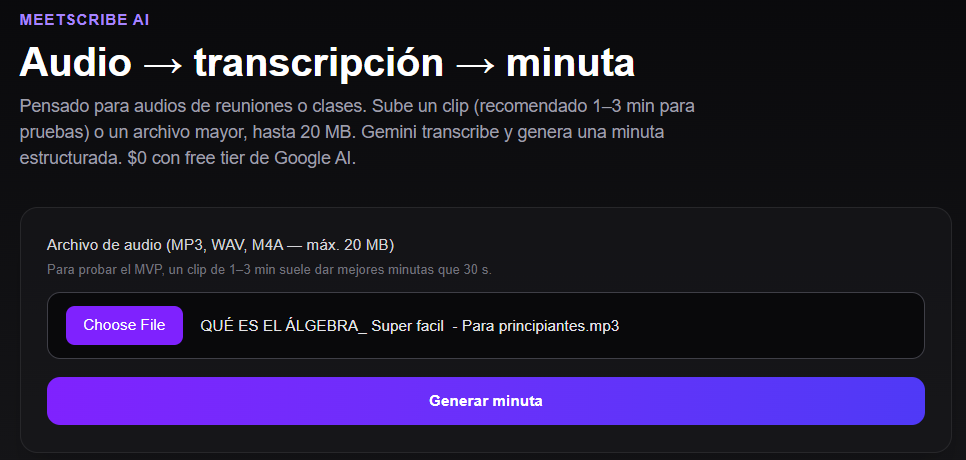
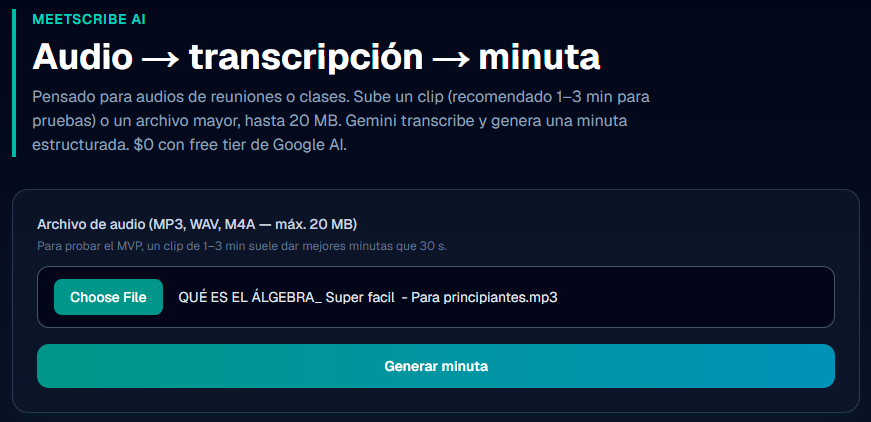
docs: update screenshots with new teal design

Changed region(s): [[0.031, 0.4929, 0.961, 0.9242], [0.0, 0.0308, 0.744, 0.3697], [0.961, 0.955, 0.992, 0.9858]]

diff --git a/README.md b/README.md
@@ -9,6 +9,8 @@ Pensada para ese tipo de contenido; el MVP acepta archivos de **cualquier duraci
 
 > Next.js · TypeScript · Tailwind · Google Gemini
 
+![MeetScribe AI — subir audio y generar minuta](docs/evidence/screenshots/01-upload.png)
+
 ## Qué hace
 
 1. Subes un archivo de audio (MP3, WAV, M4A…).